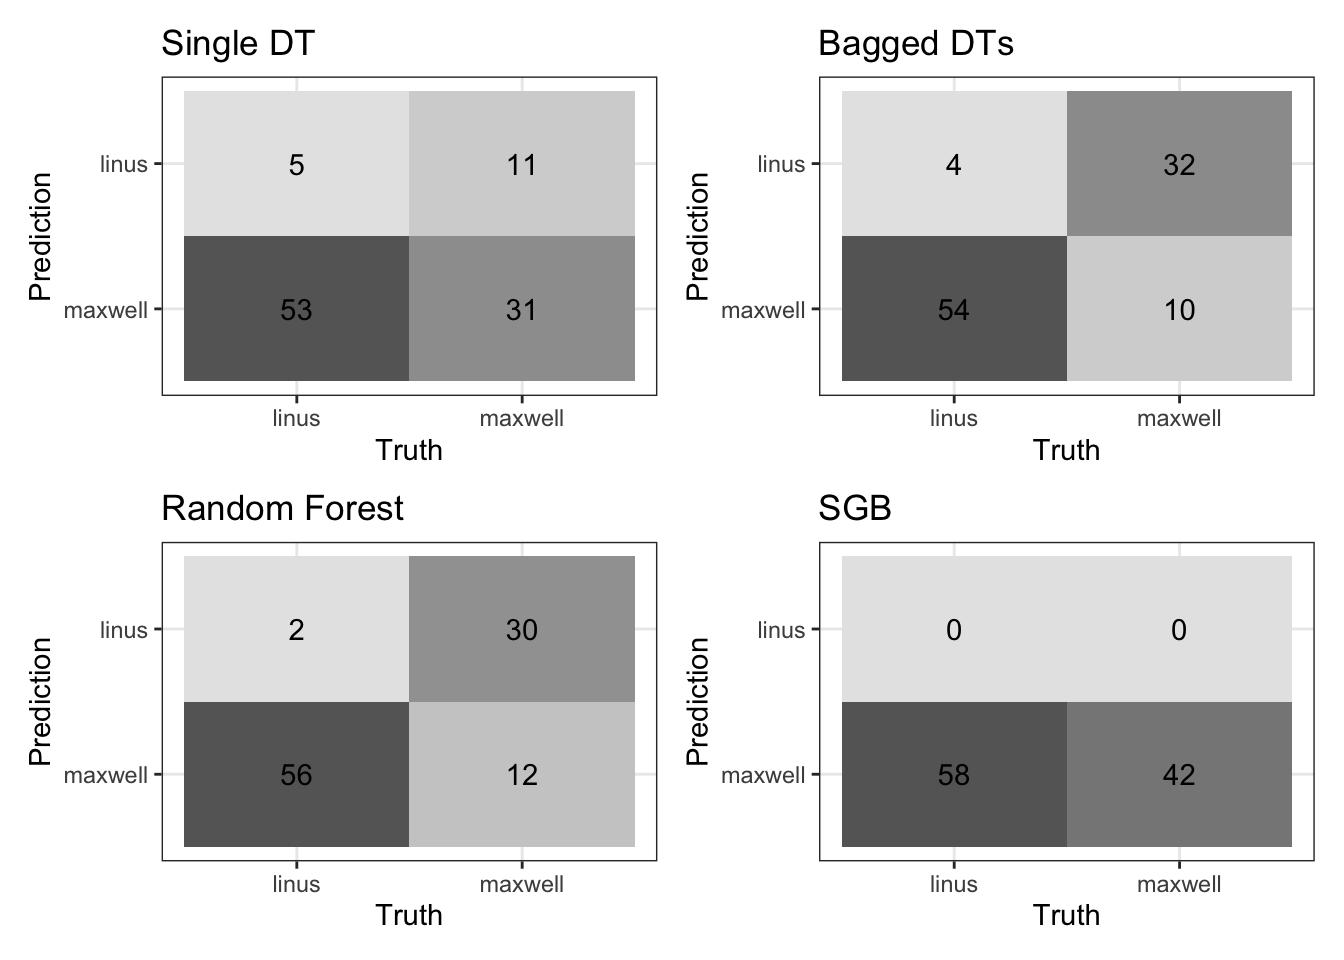
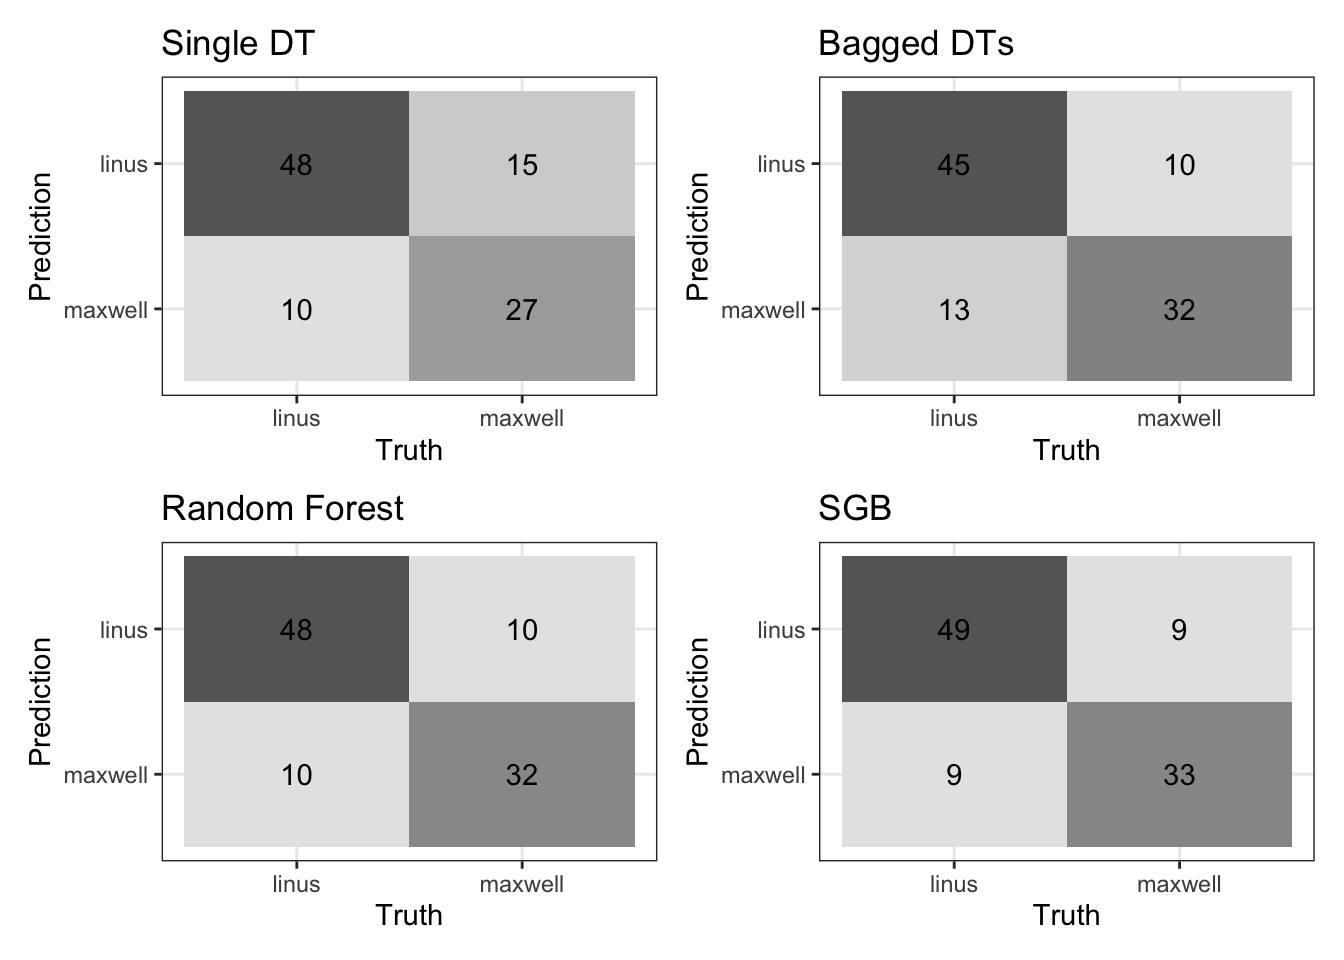
ml blog

diff --git a/docs/blog/2024-3-29-post/index.html b/docs/blog/2024-3-29-post/index.html
@@ -214,7 +214,7 @@ pre > code.sourceCode > span > a:first-child::before { text-decoration: underlin
 <span id="cb1-9"><a href="#cb1-9" aria-hidden="true" tabindex="-1"></a>linus_tracks <span class="ot">&lt;-</span> <span class="fu">read.csv</span>(here<span class="sc">::</span><span class="fu">here</span>(<span class="st">"data"</span>, <span class="st">"2024-3-29-post-data"</span>, <span class="st">"linus_tracks.csv"</span>))</span>
 <span id="cb1-10"><a href="#cb1-10" aria-hidden="true" tabindex="-1"></a></span>
 <span id="cb1-11"><a href="#cb1-11" aria-hidden="true" tabindex="-1"></a><span class="co"># read in partner data</span></span>
-<span id="cb1-12"><a href="#cb1-12" aria-hidden="true" tabindex="-1"></a>maxwell_tracks <span class="ot">&lt;-</span> <span class="fu">read.csv</span>(here<span class="sc">::</span><span class="fu">here</span>(<span class="st">"data"</span>, <span class="st">"2024-3-29-post-data"</span>, <span class="st">"linus_tracks.csv"</span>)) <span class="sc">%&gt;%</span> </span>
+<span id="cb1-12"><a href="#cb1-12" aria-hidden="true" tabindex="-1"></a>maxwell_tracks <span class="ot">&lt;-</span> <span class="fu">read.csv</span>(here<span class="sc">::</span><span class="fu">here</span>(<span class="st">"data"</span>, <span class="st">"2024-3-29-post-data"</span>, <span class="st">"maxwell_songs.csv"</span>)) <span class="sc">%&gt;%</span> </span>
 <span id="cb1-13"><a href="#cb1-13" aria-hidden="true" tabindex="-1"></a>  <span class="fu">mutate</span>(<span class="at">name =</span> <span class="st">"maxwell"</span>)</span>
 <span id="cb1-14"><a href="#cb1-14" aria-hidden="true" tabindex="-1"></a></span>
 <span id="cb1-15"><a href="#cb1-15" aria-hidden="true" tabindex="-1"></a><span class="co"># bind my liked songs df with partner df</span></span>
@@ -235,34 +235,34 @@ pre > code.sourceCode > span > a:first-child::before { text-decoration: underlin
 <span id="cb2-2"><a href="#cb2-2" aria-hidden="true" tabindex="-1"></a><span class="fu">summary</span>(combined_tracks)</span></code><button title="Copy to Clipboard" class="code-copy-button"><i class="bi"></i></button></pre></div>
 </details>
 <div class="cell-output cell-output-stdout">
-<pre><code>  danceability        energy            key            loudness      
- Min.   :0.1550   Min.   :0.0844   Min.   : 0.000   Min.   :-20.149  
- 1st Qu.:0.5060   1st Qu.:0.4880   1st Qu.: 2.000   1st Qu.: -9.468  
- Median :0.6105   Median :0.6410   Median : 6.000   Median : -7.564  
- Mean   :0.6093   Mean   :0.6142   Mean   : 5.465   Mean   : -8.134  
- 3rd Qu.:0.7125   3rd Qu.:0.7390   3rd Qu.: 8.000   3rd Qu.: -6.026  
- Max.   :0.9730   Max.   :0.9610   Max.   :11.000   Max.   : -2.497  
-      mode        speechiness       acousticness       instrumentalness   
- Min.   :0.000   Min.   :0.02450   Min.   :0.0000075   Min.   :0.0000000  
- 1st Qu.:0.000   1st Qu.:0.03350   1st Qu.:0.0362500   1st Qu.:0.0000016  
- Median :1.000   Median :0.04140   Median :0.1460000   Median :0.0013150  
- Mean   :0.665   Mean   :0.07702   Mean   :0.2663466   Mean   :0.1574583  
- 3rd Qu.:1.000   3rd Qu.:0.06352   3rd Qu.:0.4212500   3rd Qu.:0.1320000  
- Max.   :1.000   Max.   :0.43200   Max.   :0.9780000   Max.   :0.9670000  
-    liveness         valence           tempo         duration_ms    
- Min.   :0.0299   Min.   :0.0601   Min.   : 61.85   Min.   : 57877  
- 1st Qu.:0.1010   1st Qu.:0.3578   1st Qu.: 98.01   1st Qu.:154846  
- Median :0.1230   Median :0.5275   Median :122.04   Median :195162  
- Mean   :0.1766   Mean   :0.5463   Mean   :124.89   Mean   :192555  
- 3rd Qu.:0.2125   3rd Qu.:0.7620   3rd Qu.:150.50   3rd Qu.:231826  
- Max.   :0.9330   Max.   :0.9810   Max.   :208.65   Max.   :349333  
+<pre><code>  danceability        energy            key           loudness      
+ Min.   :0.1440   Min.   :0.0844   Min.   : 0.00   Min.   :-20.149  
+ 1st Qu.:0.5570   1st Qu.:0.5350   1st Qu.: 2.00   1st Qu.: -9.371  
+ Median :0.6580   Median :0.6865   Median : 5.00   Median : -7.524  
+ Mean   :0.6428   Mean   :0.6608   Mean   : 5.27   Mean   : -8.053  
+ 3rd Qu.:0.7642   3rd Qu.:0.8215   3rd Qu.: 8.00   3rd Qu.: -5.899  
+ Max.   :0.9730   Max.   :0.9840   Max.   :11.00   Max.   : -2.421  
+      mode         speechiness       acousticness       instrumentalness   
+ Min.   :0.0000   Min.   :0.02450   Min.   :0.0000075   Min.   :0.0000000  
+ 1st Qu.:0.0000   1st Qu.:0.03610   1st Qu.:0.0121500   1st Qu.:0.0000229  
+ Median :1.0000   Median :0.04685   Median :0.0721000   Median :0.0198500  
+ Mean   :0.5975   Mean   :0.07576   Mean   :0.2068194   Mean   :0.2509544  
+ 3rd Qu.:1.0000   3rd Qu.:0.07193   3rd Qu.:0.3255000   3rd Qu.:0.5235000  
+ Max.   :1.0000   Max.   :0.51900   Max.   :0.9780000   Max.   :0.9670000  
+    liveness          valence           tempo         duration_ms    
+ Min.   :0.02990   Min.   :0.0322   Min.   : 61.85   Min.   : 57877  
+ 1st Qu.:0.09557   1st Qu.:0.2640   1st Qu.:112.08   1st Qu.:169776  
+ Median :0.11900   Median :0.4530   Median :126.03   Median :210192  
+ Mean   :0.16955   Mean   :0.4711   Mean   :125.03   Mean   :219639  
+ 3rd Qu.:0.19250   3rd Qu.:0.6843   3rd Qu.:135.12   3rd Qu.:257514  
+ Max.   :0.93300   Max.   :0.9810   Max.   :208.65   Max.   :627097  
     time_sig         name          
  Min.   :1.000   Length:400        
  1st Qu.:4.000   Class :character  
  Median :4.000   Mode  :character  
- Mean   :3.925                     
+ Mean   :3.947                     
  3rd Qu.:4.000                     
- Max.   :4.000                     </code></pre>
+ Max.   :5.000                     </code></pre>
 </div>
 </div>
 <div class="cell">
@@ -281,7 +281,7 @@ pre > code.sourceCode > span > a:first-child::before { text-decoration: underlin
   name    mean_tempo mean_danceability mean_instrumentalness
   &lt;chr&gt;        &lt;dbl&gt;             &lt;dbl&gt;                 &lt;dbl&gt;
 1 linus         125.             0.609                 0.157
-2 maxwell       125.             0.609                 0.157</code></pre>
+2 maxwell       125.             0.676                 0.344</code></pre>
 </div>
 </div>
 <div class="cell">
@@ -482,7 +482,7 @@ pre > code.sourceCode > span > a:first-child::before { text-decoration: underlin
 </section>
 <section id="random-forest-model" class="level2">
 <h2 class="anchored" data-anchor-id="random-forest-model">Random forest model</h2>
-<p>Random forest models are a modification of bagged decision trees that builds a large collection of de-correlated trees to further improve predictive performance. Unlike with bagged decision trees, we now define an additional hyperparameter for the number of unique features that will be considered at each split in the decision tree. This hyperparameter, called mtry, makes it so we don’t have to worry about the trees being correlated with one another because we are only looking at a randomized subset of the features at each split in each tree. Having these un-correlated trees allows us to build many trees that are also deep, without overfitting to the training data. Because there are many trees in this model and these trees are also built to be deep based on a randomized set of features, they are referred to as random forests.</p>
+<p>Random forest models are a modification of bagged decision trees that builds a large collection of de-correlated trees to further improve predictive performance. Unlike with bagged decision trees, we now define an additional hyperparameter for the number of unique features that will be considered at each split in the decision tree. This hyperparameter, called mtry, makes it so we don’t have to worry about the trees being correlated with one another because we are only looking at a randomized subset of the features at each split in each tree. Having these un-correlated trees allows us to build many trees that are also deep, without overfitting to the training data. Because there are many trees in this model and these trees are also built to be deep based on a randomized set of features, they are referred to as a random forest.</p>
 <section id="build-preliminary-model-tune-hyperparameters-1" class="level4">
 <h4 class="anchored" data-anchor-id="build-preliminary-model-tune-hyperparameters-1">Build preliminary model &amp; tune hyperparameters</h4>
 <div class="cell">
@@ -811,7 +811,7 @@ pre > code.sourceCode > span > a:first-child::before { text-decoration: underlin
 <p><img src="index_files/figure-html/unnamed-chunk-21-1.png" class="img-fluid" width="672"></p>
 </div>
 </div>
-<p>In the SGB model, which was the best performing model, tempo was the most important feature for predicting whether a song was in my collection or Maxwell’s, with an importance close to 0.20. Valence, danceability, energy, and instrumentalness were also important features.</p>
+<p>In the SGB model, which was the best performing model, tempo, valence, danceability, energy, and instrumentalness were the most important feature for predicting whether a song was in my collection or Maxwell’s.</p>
 
 
 </section>

diff --git a/docs/blog.html b/docs/blog.html
@@ -134,7 +134,7 @@ ul.task-list li input[type="checkbox"] {
 <!-- sidebar -->
 <!-- margin-sidebar -->
     <div id="quarto-margin-sidebar" class="sidebar margin-sidebar">
-    <h5 class="quarto-listing-category-title">Categories</h5><div class="quarto-listing-category category-default"><div class="category" data-category="">All <span class="quarto-category-count">(4)</span></div><div class="category" data-category="Data Visualization">Data Visualization <span class="quarto-category-count">(1)</span></div><div class="category" data-category="Energy Transition">Energy Transition <span class="quarto-category-count">(1)</span></div><div class="category" data-category="Geospatial Analysis">Geospatial Analysis <span class="quarto-category-count">(2)</span></div><div class="category" data-category="Land Cover Analysis">Land Cover Analysis <span class="quarto-category-count">(1)</span></div><div class="category" data-category="Methane">Methane <span class="quarto-category-count">(1)</span></div><div class="category" data-category="Python">Python <span class="quarto-category-count">(1)</span></div><div class="category" data-category="R">R <span class="quarto-category-count">(3)</span></div><div class="category" data-category="Statistical Modeling">Statistical Modeling <span class="quarto-category-count">(1)</span></div></div></div>
+    <h5 class="quarto-listing-category-title">Categories</h5><div class="quarto-listing-category category-default"><div class="category" data-category="">All <span class="quarto-category-count">(5)</span></div><div class="category" data-category="Data Visualization">Data Visualization <span class="quarto-category-count">(1)</span></div><div class="category" data-category="Energy Transition">Energy Transition <span class="quarto-category-count">(1)</span></div><div class="category" data-category="Geospatial Analysis">Geospatial Analysis <span class="quarto-category-count">(2)</span></div><div class="category" data-category="Land Cover Analysis">Land Cover Analysis <span class="quarto-category-count">(1)</span></div><div class="category" data-category="Machine Learning">Machine Learning <span class="quarto-category-count">(1)</span></div><div class="category" data-category="Methane">Methane <span class="quarto-category-count">(1)</span></div><div class="category" data-category="Python">Python <span class="quarto-category-count">(1)</span></div><div class="category" data-category="R">R <span class="quarto-category-count">(4)</span></div><div class="category" data-category="Statistical Modeling">Statistical Modeling <span class="quarto-category-count">(1)</span></div></div></div>
 <!-- main -->
 <main class="content" id="quarto-document-content">
 
@@ -281,7 +281,45 @@ Linus Ghanadan
 </a>
 </div>
 </div>
-<div class="quarto-post image-right" data-index="3" data-categories="Geospatial Analysis,Land Cover Analysis,Python" data-listing-date-sort="1702281600000" data-listing-file-modified-sort="1711583367040" data-listing-date-modified-sort="NaN" data-listing-reading-time-sort="6">
+<div class="quarto-post image-right" data-index="3" data-categories="Machine Learning,R" data-listing-date-sort="1702368000000" data-listing-file-modified-sort="1711766260128" data-listing-date-modified-sort="NaN" data-listing-reading-time-sort="24">
+<div class="thumbnail">
+<p><a href="./blog/2024-3-29-post/index.html"> <img src="./blog/2024-3-29-post/plot.jpeg" class="thumbnail-image"> </a></p>
+</div>
+<div class="body">
+<a href="./blog/2024-3-29-post/index.html">
+<h3 class="no-anchor listing-title">
+Building predictive user classification models with data from Spotify Web API
+</h3>
+<div class="listing-subtitle">
+
+</div>
+</a>
+<div class="listing-categories">
+<div class="listing-category" onclick="window.quartoListingCategory('Machine Learning'); return false;">
+Machine Learning
+</div>
+<div class="listing-category" onclick="window.quartoListingCategory('R'); return false;">
+R
+</div>
+</div>
+<a href="./blog/2024-3-29-post/index.html">
+<div class="listing-description">
+<p>In this blog post, I build predictive models using a single decision tree, bagged decision trees, a random forest, and Stochastic Gradient Boosting (SGB) for predicting whether a given song was in my Spotify collection or that of my friend Maxwell. Then, I compare the performance of these four models.</p>
+</div>
+</a>
+</div>
+<div class="metadata">
+<a href="./blog/2024-3-29-post/index.html">
+<div class="listing-date">
+Dec 12, 2023
+</div>
+<div class="listing-author">
+Linus Ghanadan
+</div>
+</a>
+</div>
+</div>
+<div class="quarto-post image-right" data-index="4" data-categories="Geospatial Analysis,Land Cover Analysis,Python" data-listing-date-sort="1702281600000" data-listing-file-modified-sort="1711583367040" data-listing-date-modified-sort="NaN" data-listing-reading-time-sort="6">
 <div class="thumbnail">
 <p><a href="./blog/2023-12-11-post/mt-whitney-land-cover.html"> <img src="./blog/2023-12-11-post/mount_whitney.jpeg" class="thumbnail-image"> </a></p>
 </div>
